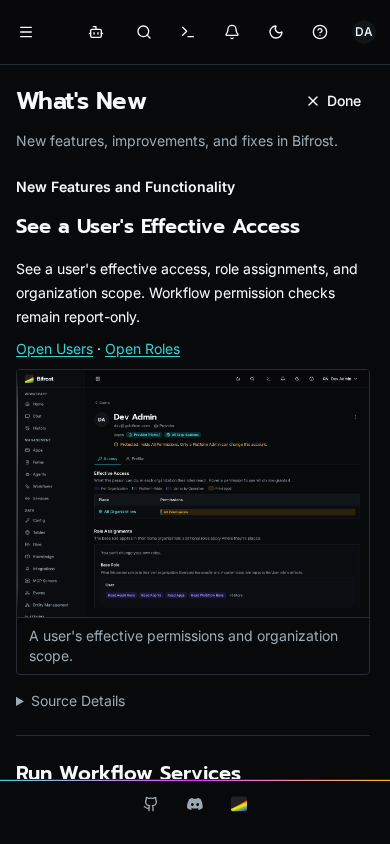
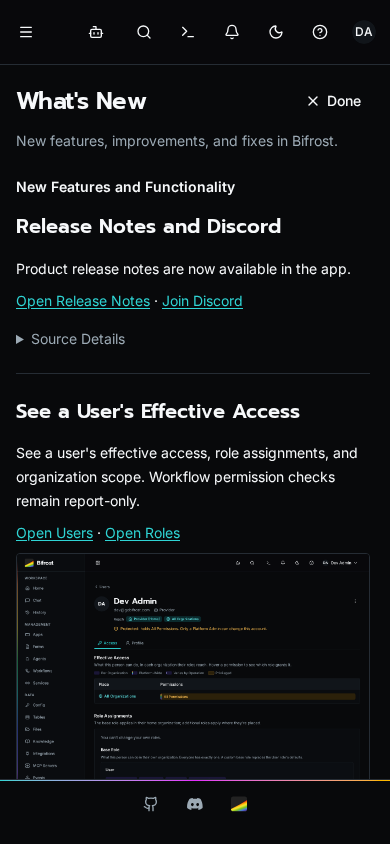
Activate the Release Notes and Discord announcement (#922)
Activate “Release Notes and Discord” in every image channel now that its
source PR #918 has landed. Refresh verified cumulative metadata through
that merge, retain the announcement’s UUID/revision and approved copy,
and regenerate the image bundle and review screenshots.

The initial ledger now covers 127 PRs since v1.4.1: 17 approved
canonical notes (16 visible), 17 smaller customer-facing changes, and 41
documented omissions. Opening the modal automatically saves the
displayed UUIDs; the same admin sees no repeated modal in a fresh
browser.

Validation: production-client browser journey passed (11.2 seconds),
including the new announcement/invite and 16 persistent receipts; three
API bundle tests; 37 Python tool/release tests; content validation and
scoped ESLint. No full suites were run locally; the merge queue provides
the broad gate. No release tag or GitHub release publication.

diff --git a/client/e2e/preview/product-updates.admin.spec.ts b/client/e2e/preview/product-updates.admin.spec.ts
@@ -19,6 +19,8 @@ test("admin sees new updates automatically and reopens history from Help", async
 	await page.waitForURL((url) => !url.pathname.startsWith("/login"));
 	const dialog = page.getByRole("dialog", { name: "What's New" });
 	await expect(dialog).toBeVisible();
+	await expect(dialog.getByRole("heading", { name: "Release Notes and Discord", exact: true })).toBeVisible();
+	await expect(dialog.getByRole("link", { name: "Join Discord", exact: true })).toHaveAttribute("href", "https://discord.gg/x84pft2YDa");
 	await expect(
 		dialog.getByRole("heading", {
 			name: "See a User's Effective Access",
@@ -33,7 +35,7 @@ test("admin sees new updates automatically and reopens history from Help", async
 	).toHaveAttribute("href", "https://discord.gg/x84pft2YDa");
 	const receipt = await receiptResponse;
 	expect(receipt.status()).toBe(200);
-	expect((await receipt.json()).seen_entry_ids).toHaveLength(15);
+	expect((await receipt.json()).seen_entry_ids).toHaveLength(16);
 	await page.screenshot({
 		animations: "disabled",
 		path: testInfo.outputPath("whats-new-modal-desktop.png"),
@@ -139,7 +141,7 @@ test("admin sees new updates automatically and reopens history from Help", async
 		await freshPage.getByLabel("Password", { exact: true }).fill(password);
 		await freshPage.getByRole("button", { name: "Sign In", exact: true }).click();
 		const feed = await (await feedResponse).json();
-		expect(feed.seen_entry_ids).toHaveLength(15);
+		expect(feed.seen_entry_ids).toHaveLength(16);
 		await expect(freshPage.getByRole("button", { name: "Help", exact: true })).toBeVisible();
 		await expect(freshPage.getByRole("dialog", { name: "What's New" })).toHaveCount(0);
 	} finally {

diff --git a/docs/plans/product-updates-progress.md b/docs/plans/product-updates-progress.md
@@ -1,14 +1,14 @@
 # Product Updates Implementation Progress
 
 Worktree: `/home/jack/.codex/worktrees/ae47/bifrost`  
-Branch: `codex/product-updates`  
+Branch: `codex/product-updates-activation`
 Executor: this Codex chat, with disjoint Terra implementation tasks for tooling, client preview, and CI/release integration.
 
 ## Current Production Status
 
-This section supersedes historical preview-only status below. Jack authorized finishing production delivery and merging on 2026-10-06. All image channels now use the immutable approved bundle and authenticated per-admin PostgreSQL receipts. The local-storage adapter, development gates and Preview Controls were removed. Fifteen visible entries from sixteen approved canonical notes are ready; the app/Discord announcement still needs its actual feature PR as verified source.
+This section supersedes historical preview-only status below. Jack authorized finishing production delivery and merging on 2026-10-06. All image channels now use the immutable approved bundle and authenticated per-admin PostgreSQL receipts. The local-storage adapter, development gates and Preview Controls were removed. Sixteen visible entries from seventeen approved canonical notes are ready. The app/Discord announcement now cites verified feature PR #918 and its actual landed commit, retaining UUID and revision 5.
 
-Production-image browser verification passed with the rebuilt `client/Dockerfile` image, using `BIFROST_PRODUCT_UPDATES_TEST_URL=http://bifrost-product-updates-production-proof bash scripts/test-product-updates-preview.sh`: one journey passed in 9.8 seconds. It checks the automatic modal, receipt POST, loaded feature screenshots, desktop/mobile scrolling and exit controls, Help navigation, and no repeated modal when the same admin signs into a fresh browser. Screenshots were refreshed from that production run.
+Production-image browser verification passed with the rebuilt `client/Dockerfile` image, using `BIFROST_PRODUCT_UPDATES_TEST_URL=http://bifrost-product-updates-production-proof bash scripts/test-product-updates-preview.sh`: the activated announcement journey passed in 11.2 seconds (10.0 seconds for the test). It checks the automatic modal, receipt POST, loaded feature screenshots, desktop/mobile scrolling and exit controls, Help navigation, and no repeated modal when the same admin signs into a fresh browser. Screenshots were refreshed from that production run.
 
 Focused client verification: `./test.sh client unit src/components/layout/HelpMenu.test.tsx src/services/productUpdates.test.ts src/components/layout/ProductUpdateContent.test.tsx src/components/layout/ProductUpdatesDialog.test.tsx src/pages/ProductUpdates.test.tsx` passed 22 tests in five files; scoped ESLint, full `npm run lint` (zero errors; four existing warnings outside the changed files) and `npm run tsc` passed. Tests cover UUID identity versus revisions, new IDs, same-admin/other-admin tab messages, failed receipts and empty feeds.
 
@@ -33,6 +33,8 @@ Final review removed CodeQL's redundant compact-title conditional and unused pre
 The rebuilt production-image browser journey passed again with the replacement Discord invite (10.1 seconds overall). The feature PR's full checks passed on `6dba827f01dbc38e2896620c2e690a7fcbed27ed`, but its first merge-group Product Updates check exposed an ancestry assumption that fails for a squash queue. The PR was dequeued and auto-merge disabled while correcting the trusted base helper in PR #919. The replacement resolves GitHub MergeQueueEntry head/base commit metadata and rejects missing, ambiguous or cyclic chains. Eight focused Node tests passed, including the actual failed candidate, and the workflow adapter passed syntax and two-page pagination checks. No failed validation gate was bypassed.
 
 The squash-queue helper repair PR #919 merged as `14c6d9c92d845f1451d5d62c3a53ebf155a1c66a` after every queue check passed, including all three E2E shards and both signed image candidates. Its post-merge exact-candidate promotion gate passed. The feature branch incorporates it, and the cumulative inventory now has 126 verified PRs/commits with no missing coverage: 68 Highlight, 17 Other, 41 Omit. Focused verification passed eight Node scope tests, workflow adapter syntax/pagination checks, 37 Python tool/release tests, action pins and content validation. Saved previews and the image bundle were refreshed.
+
+Feature PR #918 merged as `e8295e7bf386d8d2223a639f70ab9c2f2dc2c5b1` after every PR and queue check passed, including Product Updates normalization, all three E2E shards, browser smoke and both image candidates. Its post-merge exact-candidate promotion passed. The activation ledger covers 127 verified PRs/commits: 69 Highlight, 17 Other, 41 Omit. All 17 approved entries are eligible; 16 are visible and the dependency notice stays release-only. The production-client browser journey passed after copying the new immutable bundle into the existing debug API container and reloading it. Its first run correctly rejected the stale 15-visible-entry debug input; no assertion or timeout was relaxed. The passing journey checks the new announcement, replacement invite, 16 saved UUIDs and no repeated modal in a fresh browser. Screenshots are from that passing run. Activation is tracked by PR #922. `./test.sh tests/unit/services/test_product_updates.py -v` passed all three bundle tests against the new prepared artifact; 37 Python tool/release tests, scoped browser-spec ESLint and source validation passed.
 
 ## Historical Implementation Record
 

diff --git a/product-updates/previews/announcement-preview.md b/product-updates/previews/announcement-preview.md
@@ -40,6 +40,15 @@ Sources: [#820](https://github.com/gobifrost/bifrost/pull/820), [#830](https://g
 
 ## What's New
 
+### Release Notes and Discord
+
+
+Product release notes are now available in the app.
+
+**Open Release Notes** (in Bifrost) · [Join Discord](https://discord.gg/x84pft2YDa)
+
+Sources: [#918](https://github.com/gobifrost/bifrost/pull/918)
+
 ### See a User's Effective Access
 
 
@@ -47,7 +56,7 @@ See a user's effective access, role assignments, and organization scope. Workflo
 
 **Open Users** (in Bifrost) · **Open Roles** (in Bifrost)
 
-![Effective access and role assignments](https://raw.githubusercontent.com/gobifrost/bifrost/1837da2cfcfc8646ef5b094894bba4edd9d767f9/product-updates/assets/fd0c7319-fcc0-5901-8eeb-3ec1b74f98c8/effective-access.png)
+![Effective access and role assignments](https://raw.githubusercontent.com/gobifrost/bifrost/e8295e7bf386d8d2223a639f70ab9c2f2dc2c5b1/product-updates/assets/fd0c7319-fcc0-5901-8eeb-3ec1b74f98c8/effective-access.png)
 
 A user's effective permissions and organization scope.
 
@@ -144,7 +153,7 @@ Run and event history defaults to 30 days, including existing installs. Choose *
 
 **Open Maintenance** (in Bifrost)
 
-![Run history retention settings](https://raw.githubusercontent.com/gobifrost/bifrost/1837da2cfcfc8646ef5b094894bba4edd9d767f9/product-updates/assets/0cf7ed8c-3fc1-5d28-b89b-09ca20a59262/retention.png)
+![Run history retention settings](https://raw.githubusercontent.com/gobifrost/bifrost/e8295e7bf386d8d2223a639f70ab9c2f2dc2c5b1/product-updates/assets/0cf7ed8c-3fc1-5d28-b89b-09ca20a59262/retention.png)
 
 Choose a retention period or keep finished runs and events indefinitely.
 

diff --git a/product-updates/previews/initial-candidate.md b/product-updates/previews/initial-candidate.md
@@ -40,6 +40,15 @@ Sources: [#820](https://github.com/gobifrost/bifrost/pull/820), [#830](https://g
 
 ## What's New
 
+### Release Notes and Discord
+
+
+Product release notes are now available in the app.
+
+**Open Release Notes** (in Bifrost) · [Join Discord](https://discord.gg/x84pft2YDa)
+
+Sources: [#918](https://github.com/gobifrost/bifrost/pull/918)
+
 ### See a User's Effective Access
 
 
@@ -47,7 +56,7 @@ See a user's effective access, role assignments, and organization scope. Workflo
 
 **Open Users** (in Bifrost) · **Open Roles** (in Bifrost)
 
-![Effective access and role assignments](https://raw.githubusercontent.com/gobifrost/bifrost/1837da2cfcfc8646ef5b094894bba4edd9d767f9/product-updates/assets/fd0c7319-fcc0-5901-8eeb-3ec1b74f98c8/effective-access.png)
+![Effective access and role assignments](https://raw.githubusercontent.com/gobifrost/bifrost/e8295e7bf386d8d2223a639f70ab9c2f2dc2c5b1/product-updates/assets/fd0c7319-fcc0-5901-8eeb-3ec1b74f98c8/effective-access.png)
 
 A user's effective permissions and organization scope.
 
@@ -144,7 +153,7 @@ Run and event history defaults to 30 days, including existing installs. Choose *
 
 **Open Maintenance** (in Bifrost)
 
-![Run history retention settings](https://raw.githubusercontent.com/gobifrost/bifrost/1837da2cfcfc8646ef5b094894bba4edd9d767f9/product-updates/assets/0cf7ed8c-3fc1-5d28-b89b-09ca20a59262/retention.png)
+![Run history retention settings](https://raw.githubusercontent.com/gobifrost/bifrost/e8295e7bf386d8d2223a639f70ab9c2f2dc2c5b1/product-updates/assets/0cf7ed8c-3fc1-5d28-b89b-09ca20a59262/retention.png)
 
 Choose a retention period or keep finished runs and events indefinitely.
 

diff --git a/product-updates/previews/initial-full-release.md b/product-updates/previews/initial-full-release.md
@@ -40,6 +40,15 @@ Sources: [#820](https://github.com/gobifrost/bifrost/pull/820), [#830](https://g
 
 ## What's New
 
+### Release Notes and Discord
+
+
+Product release notes are now available in the app.
+
+**Open Release Notes** (in Bifrost) · [Join Discord](https://discord.gg/x84pft2YDa)
+
+Sources: [#918](https://github.com/gobifrost/bifrost/pull/918)
+
 ### See a User's Effective Access
 
 
@@ -47,7 +56,7 @@ See a user's effective access, role assignments, and organization scope. Workflo
 
 **Open Users** (in Bifrost) · **Open Roles** (in Bifrost)
 
-![Effective access and role assignments](https://raw.githubusercontent.com/gobifrost/bifrost/1837da2cfcfc8646ef5b094894bba4edd9d767f9/product-updates/assets/fd0c7319-fcc0-5901-8eeb-3ec1b74f98c8/effective-access.png)
+![Effective access and role assignments](https://raw.githubusercontent.com/gobifrost/bifrost/e8295e7bf386d8d2223a639f70ab9c2f2dc2c5b1/product-updates/assets/fd0c7319-fcc0-5901-8eeb-3ec1b74f98c8/effective-access.png)
 
 A user's effective permissions and organization scope.
 
@@ -144,7 +153,7 @@ Run and event history defaults to 30 days, including existing installs. Choose *
 
 **Open Maintenance** (in Bifrost)
 
-![Run history retention settings](https://raw.githubusercontent.com/gobifrost/bifrost/1837da2cfcfc8646ef5b094894bba4edd9d767f9/product-updates/assets/0cf7ed8c-3fc1-5d28-b89b-09ca20a59262/retention.png)
+![Run history retention settings](https://raw.githubusercontent.com/gobifrost/bifrost/e8295e7bf386d8d2223a639f70ab9c2f2dc2c5b1/product-updates/assets/0cf7ed8c-3fc1-5d28-b89b-09ca20a59262/retention.png)
 
 Choose a retention period or keep finished runs and events indefinitely.
 

diff --git a/docs/plans/product-updates-claude-handoff.md b/docs/plans/product-updates-claude-handoff.md
@@ -12,7 +12,7 @@ Features have concise individual headlines and verified screenshots where availa
 
 ## Content and Build
 
-The initial cumulative inventory covers 126 PRs since v1.4.1: 16 approved canonical notes covering 68 PRs, 17 smaller customer-facing changes and 41 documented omissions (including both validator bootstrap repairs). Fifteen canonical entries are visible in the app. The Release Notes and Discord announcement keeps its stable UUID and must cite this feature's actual PR; pending sources stay withheld until their landed metadata is verified.
+The initial cumulative inventory covers 127 PRs since v1.4.1: 17 approved canonical notes covering 69 PRs, 17 smaller customer-facing changes and 41 documented omissions (including both validator bootstrap repairs). Sixteen canonical entries are visible in the app. The Release Notes and Discord announcement retains its stable UUID and revision 5 and now cites verified PR #918 and its actual merge commit. Pending future sources stay withheld until their landed metadata is verified.
 
 Every API/client image is prepared from the shared approved source. The API serves an immutable bundle; screenshots have content-hashed URLs. Database storage contains presentation receipts, not a second editable release-note source. No runtime GitHub requests, model generation or polling are involved.
 

diff --git a/product-updates/entries/fff7e9e4-e072-590b-a65d-8873e2be4438.md b/product-updates/entries/fff7e9e4-e072-590b-a65d-8873e2be4438.md
@@ -14,7 +14,8 @@
   "sources": [
     {
       "pr": 918,
-      "role": "implementation"
+      "role": "implementation",
+      "commit": "e8295e7bf386d8d2223a639f70ab9c2f2dc2c5b1"
     }
   ],
   "eligibility": {
